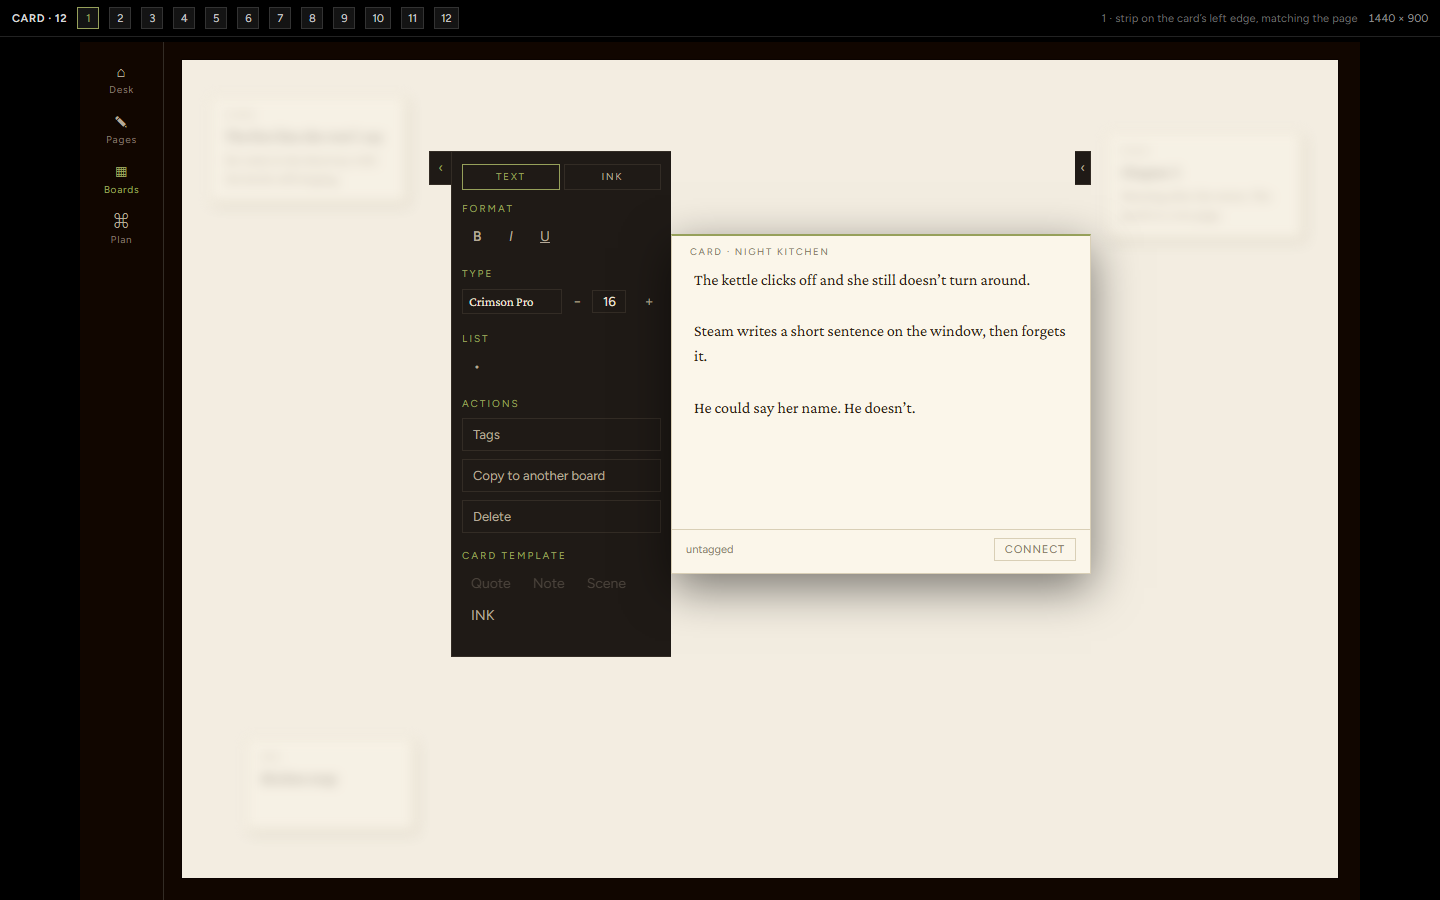
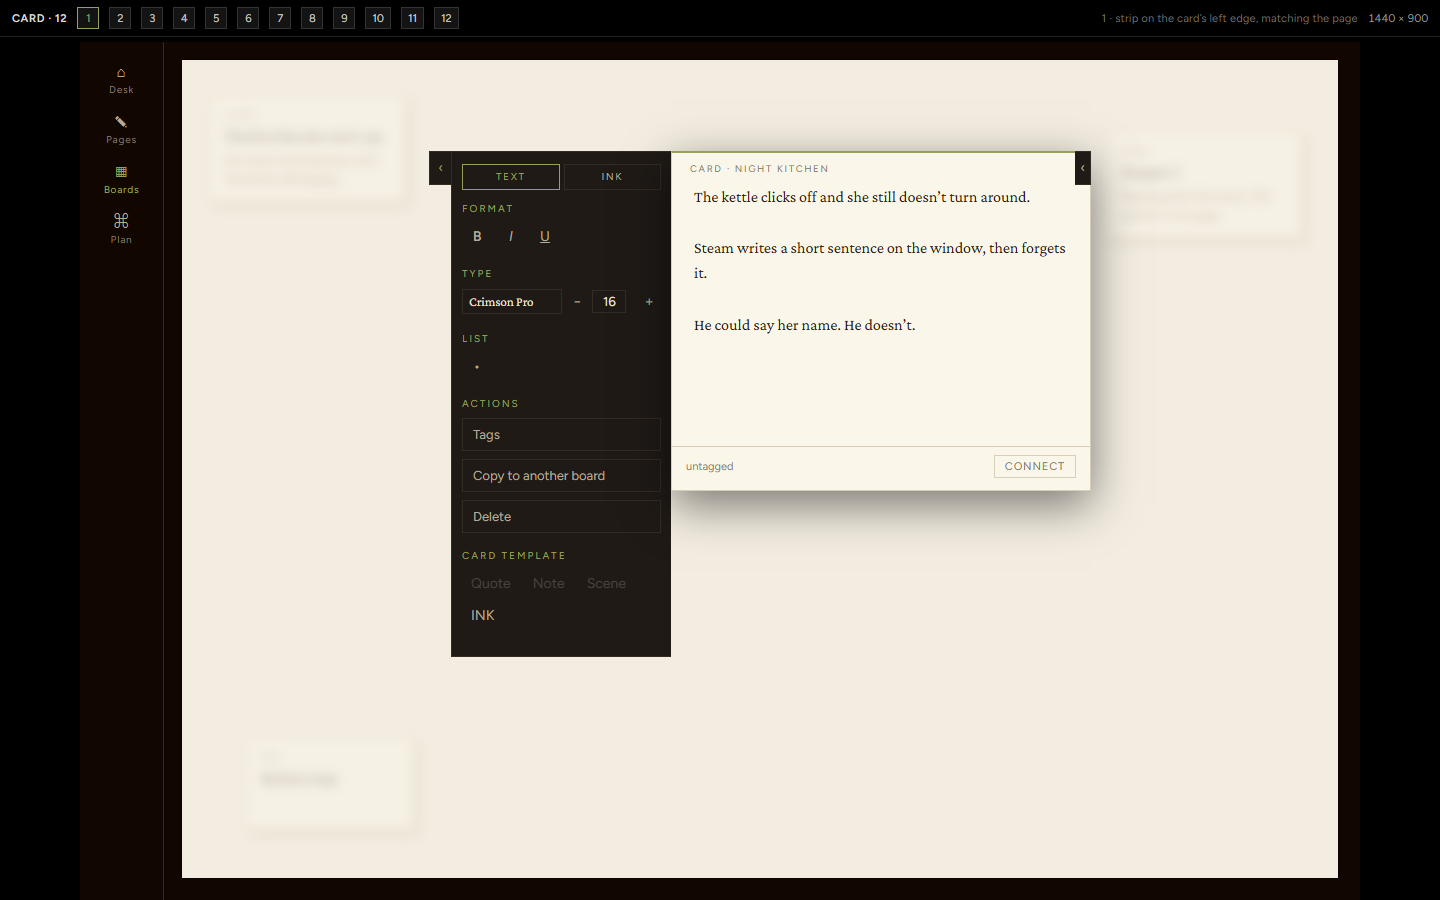
Align the card strip and Tutor to the card's top; shoot phone at 390px with no sideways overflow.

Changed region(s): [[0.4688, 0.1556, 0.7812, 0.3733], [0.4688, 0.4978, 0.7812, 0.6844], [0.5, 0.4356, 0.625, 0.4667]]

diff --git a/docs/mockups/cards/index.html b/docs/mockups/cards/index.html
@@ -61,12 +61,13 @@
   }
 
   * { box-sizing: border-box; margin: 0; padding: 0; border-radius: 0; }
-  html, body { height: 100%; }
+  html, body { height: 100%; overflow-x: hidden; }
   body {
     background: #000;
     color: var(--text-hi);
     font-family: var(--font-ui);
     overflow: hidden;
+    max-width: 100%;
   }
   button, input { font: inherit; color: inherit; }
   button { background: none; border: 0; cursor: pointer; }
@@ -79,6 +80,7 @@
     padding: 7px 12px;
     background: #000; border-bottom: 1px solid #222;
     font-size: 11px; color: #9a9a9a;
+    max-width: 100%; overflow-x: hidden;
   }
   .rig b { color: #d8d8d8; font-weight: 600; letter-spacing: .06em; }
   .rig .rev {
@@ -343,7 +345,7 @@
     position: relative;
     width: min(420px, 72vw);
     min-height: 340px;
-    align-self: center;
+    align-self: flex-start;
     background: var(--card-stock);
     color: var(--ink-on-paper);
     border: 1px solid var(--card-hairline);
@@ -364,6 +366,7 @@
     font-size: 16px; line-height: 1.6;
     color: var(--ink-on-paper);
     white-space: pre-wrap;
+    overflow-wrap: anywhere;
   }
   .editor[data-bold='true'] { font-weight: 600; }
   .editor[data-italic='true'] { font-style: italic; }
@@ -377,6 +380,7 @@
 
   .card-foot {
     display: flex; justify-content: space-between; align-items: center;
+    gap: 8px; min-width: 0;
     padding: 8px 14px 12px; border-top: 1px solid var(--card-hairline);
     font-size: 11px; color: var(--ink-on-paper-low);
   }
@@ -521,25 +525,24 @@
   /* phone — sheet BELOW the card, never over the writing */
   @media (max-width: 720px) {
     .rig .hint { display: none; }
-    .stage { grid-template-columns: 1fr; width: 100%; max-width: 100vw; min-width: 0; overflow: hidden; }
+    .stage { grid-template-columns: minmax(0, 1fr); width: 100%; max-width: 100%; min-width: 0; overflow: hidden; }
     .rail { display: none; }
     .board { inset: 8px; min-width: 0; overflow: hidden; }
     .ghost { display: none; }
     .cluster {
       display: flex; flex-direction: column; align-items: stretch;
-      left: 8px; top: 8px; bottom: 8px; right: auto;
-      transform: none;
-      width: calc(100vw - 32px); max-width: calc(100vw - 32px);
+      left: 8px; right: 8px; top: 8px; bottom: 8px;
+      transform: none; width: auto; max-width: 100%;
       overflow-x: hidden; overflow-y: auto; min-width: 0;
     }
     .strip-body { overflow-x: hidden; }
-    .editor { overflow-wrap: anywhere; }
-    .row.type-row { grid-template-columns: minmax(0, 1fr) 22px 2.2em 22px; }
-    .card, .strip, .strip-panel, .strip-body, .tutor, .tutor-panel {
+    .editor { overflow-wrap: anywhere; word-break: break-word; }
+    .row.type-row { grid-template-columns: minmax(0, 1fr) 24px 2.4em 24px; width: 100%; }
+    .card, .strip, .strip-panel, .strip-body, .tutor, .tutor-panel, .phone-dock {
       min-width: 0; max-width: 100%;
     }
-    .card { width: 100%; max-width: 100%; min-height: 220px; order: 1; overflow: hidden; }
-    .card-foot { gap: 8px; }
+    .card { width: 100%; max-width: 100%; min-height: 180px; order: 1; overflow: hidden; align-self: stretch; }
+    .card-foot { gap: 8px; padding: 8px 10px 10px; }
     .connect-btn { flex: 0 0 auto; }
     .phone-dock { order: 2; display: flex !important; }
     .strip { position: static; order: 3; width: 100%; flex: 0 0 auto; }
@@ -556,7 +559,7 @@
       width: 100% !important; flex-basis: auto !important;
       border: 1px solid var(--ink-border);
     }
-    .thumbs { grid-template-columns: repeat(2, 1fr); }
+    .thumbs { grid-template-columns: repeat(2, minmax(0, 1fr)); }
     .editor { font-size: 15px; padding: 8px 14px 40px; }
     .strip-body, .tutor-body { max-height: 42vh; }
   }
